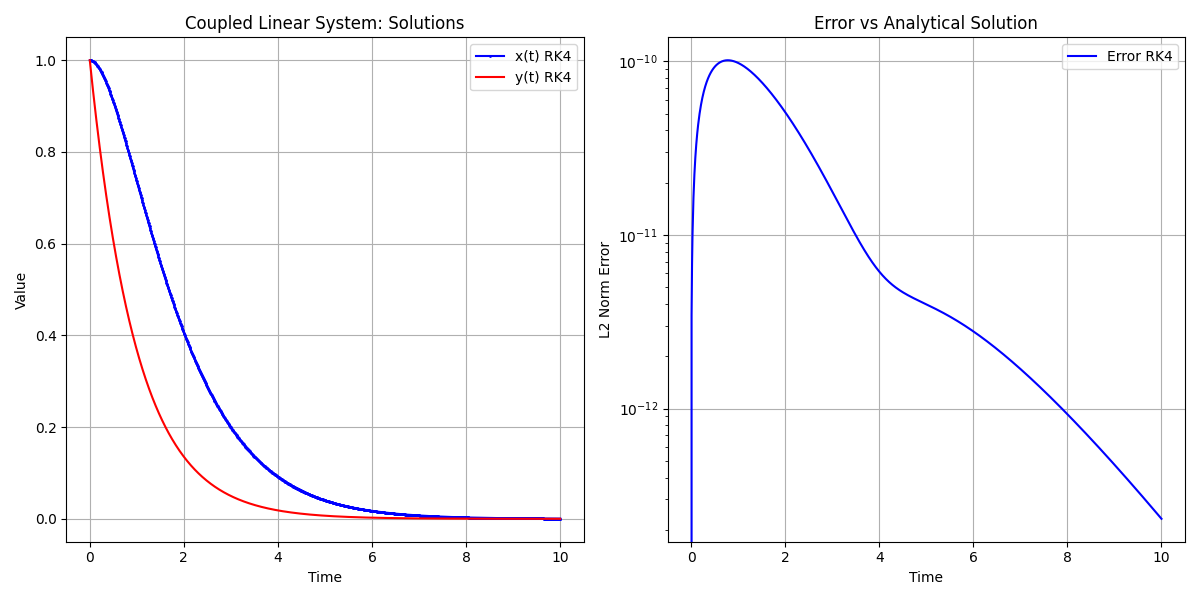
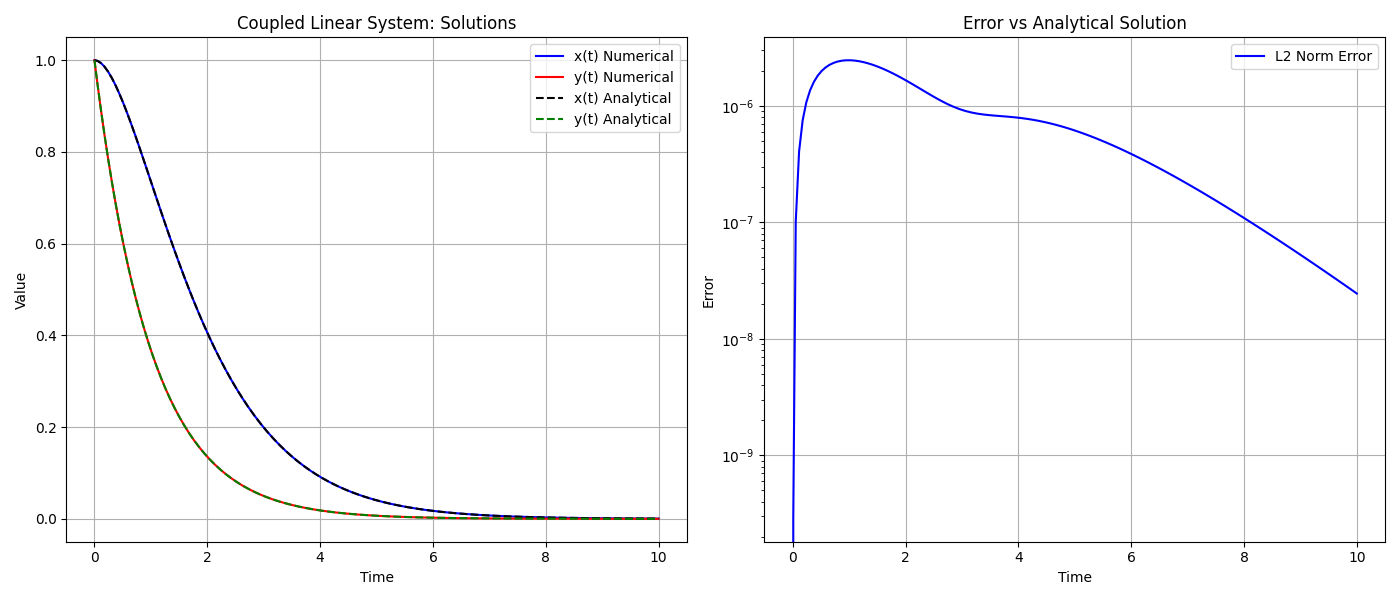
Updated README.md

diff --git a/examples/coupled_linear_system.py b/examples/coupled_linear_system.py
@@ -1,69 +1,74 @@
 import numpy as np
 import matplotlib.pyplot as plt
-from EDOs_solver import EDOs
-from EDOs_solver import TableauDeButcher
-from EDOs_solver import SolveurRKAvecTableauDeButcher
+
+# Using the top-level imports from the installed package
+from EDOsSolverModules import EDOs
+from EDOsSolverModules import TableauDeButcher
+from EDOsSolverModules import SolveurRKAvecTableauDeButcher
 
 # Define coupled linear system
 class SystemeCouple(EDOs):
-    def __init__(self, t_init, t_final, initial_state):
-        super().__init__(t_init, t_final, initial_state)
+    def __init__(self, t_init, t_final, u_init):
+        super().__init__(t_init, t_final, u_init)
+    
     def evalue(self, t, u):
         x, y = u
         return np.array([-x + y, -y])
 
 # Analytical solution
-def solution_analytique(t, t0, u0):
+def solution_analytique(t, u0):
+    tau = t - 0.0
     x0, y0 = u0
-    tau = t - t0
-    x = np.exp(-tau)*(x0 + y0*tau)
+    x = np.exp(-tau) * (x0 + y0 * tau)
     y = y0 * np.exp(-tau)
     return np.array([x, y])
 
-
-if __name__=='__main__':
+if __name__ == '__main__':
     # Initial conditions
-    t0 = 0.0
-    tf = 10
-    u0 = [1.0, 1.0]
-    systeme = SystemeCouple(t0, tf, u0)
-    
-    # RK4 solver
-    time_step = 0.01
-    max_number_of_time_steps = 1000
-    solveur_rk4 = SolveurRKAvecTableauDeButcher(TableauDeButcher.from_name('rk4'))
-    t_rk4, sol_rk4 = solveur_rk4.solve(systeme, time_step)
-    
-    # Compute analytical solution
-    sol_ana = np.array([solution_analytique(ti, t0, u0) for ti in t_rk4])
-    
-    # Compute errors
-    err_rk4 = np.linalg.norm(sol_rk4 - sol_ana, axis=1)
-    
-    # Plot solutions
-    plt.figure(figsize=(12,6))
-    
-    plt.subplot(1,2,1)
-    plt.plot(t_rk4, sol_rk4[:,0], 'b.-', markersize=2, label='x(t) RK4')
-    plt.plot(t_rk4, sol_rk4[:,1], 'r-', markersize=2, label='y(t) RK4')
-    plt.title("Coupled Linear System: Solutions")
-    plt.xlabel("Time")
-    plt.ylabel("Value")
-    plt.legend()
-    plt.grid(True)
-    
-    plt.subplot(1,2,2)
-    plt.plot(t_rk4, err_rk4, 'b-', label='Error RK4')
-    plt.yscale('log')
-    plt.title("Error vs Analytical Solution")
-    plt.xlabel("Time")
-    plt.ylabel("L2 Norm Error")
-    plt.legend()
-    plt.grid(True)
-    
+    t_init = 0.0
+    t_final = 10.0
+    u_init = [1.0, 1.0]
+    systeme = SystemeCouple(t_init, t_final, u_init)
+
+    # Use a SDIRK solver for demonstration
+    solver_sdirk = SolveurRKAvecTableauDeButcher(TableauDeButcher.from_name('sdirk_hairer_norsett_wanner_45'))
+    times, solutions = solver_sdirk.solve(
+        systeme,
+        initial_step_size=0.01,
+        adaptive_time_stepping=True,
+        target_relative_error=1e-6,
+        min_step_size=1e-6,
+        max_step_size=1.0
+    )
+
+    # Compute analytical solution and errors
+    analytical_solutions = np.array([solution_analytique(t, u_init) for t in times])
+    error = np.linalg.norm(solutions - analytical_solutions, axis=1)
+
+    # Plot solutions and errors
+    fig, (ax1, ax2) = plt.subplots(1, 2, figsize=(14, 6))
+
+    ax1.plot(times, solutions[:, 0], 'b-', label='x(t) Numerical')
+    ax1.plot(times, solutions[:, 1], 'r-', label='y(t) Numerical')
+    ax1.plot(times, analytical_solutions[:, 0], 'k--', label='x(t) Analytical')
+    ax1.plot(times, analytical_solutions[:, 1], 'g--', label='y(t) Analytical')
+    ax1.set_title("Coupled Linear System: Solutions")
+    ax1.set_xlabel("Time")
+    ax1.set_ylabel("Value")
+    ax1.legend()
+    ax1.grid(True)
+
+    ax2.plot(times, error, 'b-', label='L2 Norm Error')
+    ax2.set_yscale('log')
+    ax2.set_title("Error vs Analytical Solution")
+    ax2.set_xlabel("Time")
+    ax2.set_ylabel("Error")
+    ax2.legend()
+    ax2.grid(True)
+
     plt.tight_layout()
     
-    plt.savefig("figures/quick_example.png")
+    plt.savefig("examples/figures/quick_example.png")
     
     plt.show()
     

diff --git a/README.md b/README.md
@@ -1,12 +1,5 @@
 # Numerical ODE Solver with Butcher Tableaus
 
-███████╗ ██████╗   ██████╗ 
-██╔════╝ ██╔═══██ ██╔═══██╗
-█████╗   ██║   ██ ██║   ██║
-██╔══╝   ██║   ██ ██║   ██║
-███████╗ ██████╔╝ ╚██████╔╝
-╚══════╝ ╚═════╝  ╚═════╝ 
-
 This repository contains a robust and flexible Python package for solving **ordinary differential equations (ODEs)**.  
 The solver is built to handle both **explicit and implicit Runge–Kutta methods** using a powerful **Butcher tableau** approach, and it includes a **numerical Jacobian** for convenience.
 
@@ -17,19 +10,22 @@ The solver is built to handle both **explicit and implicit Runge–Kutta methods
 - **Butcher Tableau-based Solver**:  
   A general-purpose Runge–Kutta solver configurable with any Butcher tableau. Supports a wide range of methods, from classic RK4 to advanced implicit SDIRK schemes.
 
+- **Adaptive Time-Stepping**: 
+  The solver automatically adjusts the time step size based on    local error estimates, ensuring that a solution is found with the specified accuracy while minimizing computational effort. This is crucial for solving problems with dynamics that change over time
+
 - **Implicit Method Support**:  
-  Uses the Newton–Raphson method to solve the nonlinear systems that arise in implicit ODEs, making it suitable for stiff problems.
+  Uses the **Newton–Raphson method** to solve the nonlinear systems that arise in implicit ODEs, making it suitable for stiff problems.
 
 - **Flexible System Definition**:  
-  Define any ODE system by inheriting from the `EDOs` abstract class. A fallback numerical Jacobian (central finite differences) is provided automatically.
+  Define any ODE system by inheriting from the `EDOs` abstract class. A fallback **numerical Jacobian** (central finite differences) is provided automatically.
 
 - **Analytical Jacobian Overrides**:  
-  For improved performance and accuracy, users can override the default numerical Jacobian with a hand-derived one (e.g., for the Lorenz system).
+  For improved performance and accuracy, users can override the default numerical Jacobian with a hand-derived one.
 
 - **Example Systems Included**:
   - **Lorenz System**: Demonstrates handling of chaotic dynamics and generates the famous butterfly attractor.  
   - **Simple Linear System**: With a known analytical solution, perfect for accuracy testing.
-
+  - **Robertson**: A classic stiff problem that showcases the power of implicit solvers..
 ---
 
 ## Getting Started
@@ -42,13 +38,41 @@ You will need **Python** and the following packages:
 - `scipy`  
 - `matplotlib` (for visualization)
 
-Install them with:
+### Installation
+
+Clone the repository and install the package in "editable" mode:
+
 
 ```bash
-pip install numpy scipy matplotlib
+git clone https://github.com/itchinda/edo.git
+cd edo
+pip install -e .
 
 ```
-## Quick Example: Coupled Linear System
+
+The `-e` flag allows you to run the package from any directory while still being able to edit the source code.
+
+## Usage
+
+### Listing Available Schemes
+
+You can list all the available Runge-Kutta schemes directly from the command line:
+
+```bash
+python -m EDOsSolverModules --list-schemes
+```
+
+### Running a Quick Example
+
+To solve the Lorenz System with a simple command, you can use one of the provided examples The script will automatically handle the initial conditions and visualization.
+
+```bash
+python -m examples.lorenz_system --method dopri5 --final-time 50.0
+```
+
+You can customize the simulation by changing parameters like the method (`--method`), final time (`--final-time`), step size (`--step-size`), and tolerance (`--tolerance`).
+
+## Code Example: Coupled Linear System
 
 This example solves the coupled system:
 
@@ -66,67 +90,74 @@ $$y(t) = e^{-t}$$
 ```python
 import numpy as np
 import matplotlib.pyplot as plt
-from systemes.EDOs import EDOs
-from solveurs.runge_kutta.TableauDeButcher import TableauDeButcher
-from solveurs.runge_kutta.SolveurRKAvecTableauDeButcher import SolveurRKAvecTableauDeButcher
+
+# Using the top-level imports from the installed package
+from EDOsSolverModules import EDOs
+from EDOsSolverModules import TableauDeButcher
+from EDOsSolverModules import SolveurRKAvecTableauDeButcher
 
 # Define coupled linear system
 class SystemeCouple(EDOs):
-    def __init__(self, temps_initial, condition_initiale):
-        super().__init__(temps_initial, condition_initiale)
+    def __init__(self, t_init, t_final, u_init):
+        super().__init__(t_init, t_final, u_init)
+    
     def evalue(self, t, u):
         x, y = u
         return np.array([-x + y, -y])
 
 # Analytical solution
-def solution_analytique(t, t0, u0):
+def solution_analytique(t, u0):
+    tau = t - 0.0
     x0, y0 = u0
-    tau = t - t0
-    x = np.exp(-tau)*(x0 + y0*tau)
+    x = np.exp(-tau) * (x0 + y0 * tau)
     y = y0 * np.exp(-tau)
     return np.array([x, y])
 
-# Initial conditions
-t0 = 0.0
-u0 = [1.0, 1.0]
-systeme = SystemeCouple(t0, u0)
+if __name__ == '__main__':
+    # Initial conditions
+    t_init = 0.0
+    t_final = 10.0
+    u_init = [1.0, 1.0]
+    systeme = SystemeCouple(t_init, t_final, u_init)
 
-# RK4 solver
-solveur_rk4 = SolveurRKAvecTableauDeButcher(TableauDeButcher.from_name('rk4'))
-t_rk4, sol_rk4 = solveur_rk4.solve(systeme, pas_de_temps=0.01, nb_pas_de_temps_max=1000)
+    # Use a SDIRK solver for demonstration
+    solver_sdirk = SolveurRKAvecTableauDeButcher(TableauDeButcher.from_name('sdirk_hairer_norsett_wanner_45'))
+    times, solutions = solver_sdirk.solve(
+        systeme,
+        step_size=0.01,
+        adaptive_time_stepping=True,
+        target_relative_error=1e-10,
+        min_step_size=1e-8,
+        max_step_size=1e5
+    )
 
-# Compute analytical solution
-sol_ana = np.array([solution_analytique(ti, t0, u0) for ti in t_rk4])
+    # Compute analytical solution and errors
+    analytical_solutions = np.array([solution_analytique(t, u_init) for t in times])
+    error = np.linalg.norm(solutions - analytical_solutions, axis=1)
 
-# Compute errors
-err_rk4 = np.linalg.norm(sol_rk4 - sol_ana, axis=1)
+    # Plot solutions and errors
+    fig, (ax1, ax2) = plt.subplots(1, 2, figsize=(14, 6))
 
-# Plot solutions
-plt.figure(figsize=(12,6))
+    ax1.plot(times, solutions[:, 0], 'b-', label='x(t) Numerical')
+    ax1.plot(times, solutions[:, 1], 'r-', label='y(t) Numerical')
+    ax1.plot(times, analytical_solutions[:, 0], 'b--', label='x(t) Analytical')
+    ax1.plot(times, analytical_solutions[:, 1], 'r--', label='y(t) Analytical')
+    ax1.set_title("Coupled Linear System: Solutions")
+    ax1.set_xlabel("Time")
+    ax1.set_ylabel("Value")
+    ax1.legend()
+    ax1.grid(True)
 
-plt.subplot(1,2,1)
-plt.plot(t_rk4, sol_rk4[:,0], 'b.-', markersize=2, label='x(t) RK4')
-plt.plot(t_rk4, sol_rk4[:,1], 'r-', markersize=2, label='y(t) RK4')
-plt.title("Coupled Linear System: Solutions")
-plt.xlabel("Time")
-plt.ylabel("Value")
-plt.legend()
-plt.grid(True)
+    ax2.plot(times, error, 'b-', label='L2 Norm Error')
+    ax2.set_yscale('log')
+    ax2.set_title("Error vs Analytical Solution")
+    ax2.set_xlabel("Time")
+    ax2.set_ylabel("Error")
+    ax2.legend()
+    ax2.grid(True)
 
-plt.subplot(1,2,2)
-plt.plot(t_rk4, err_rk4, 'b-', label='Error RK4')
-plt.yscale('log')
-plt.title("Error vs Analytical Solution")
-plt.xlabel("Time")
-plt.ylabel("L2 Norm Error")
-plt.legend()
-plt.grid(True)
-
-plt.tight_layout()
-
-plt.savefig("quick_example.png")
-
-plt.show()
+    plt.tight_layout()
+    plt.show()
 
 ```
 
